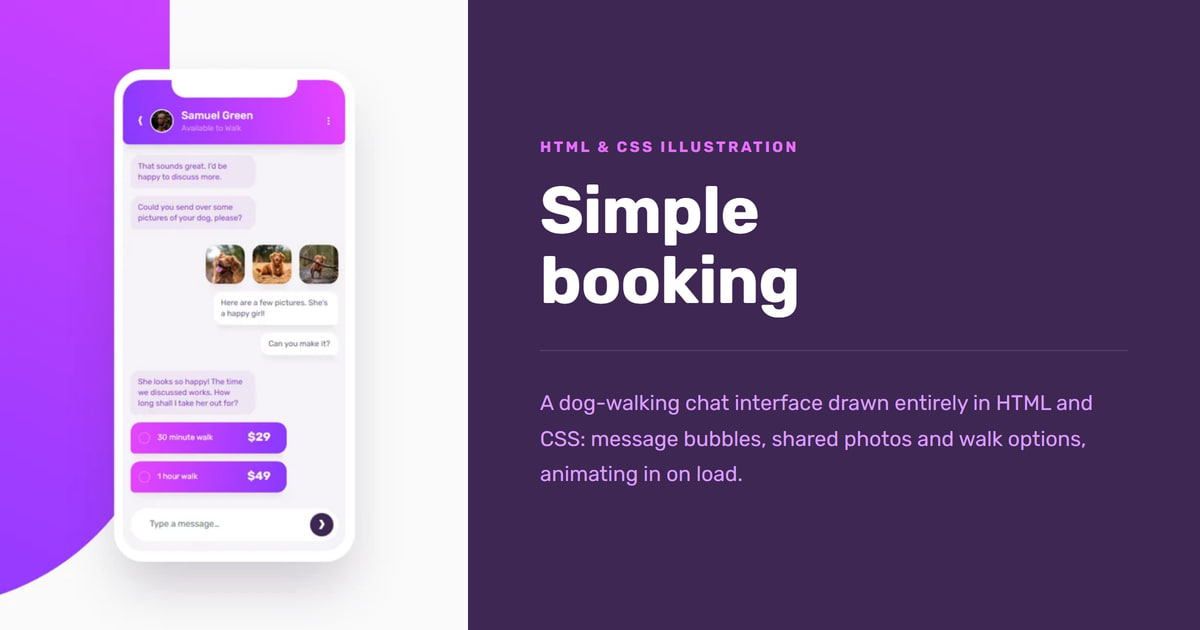
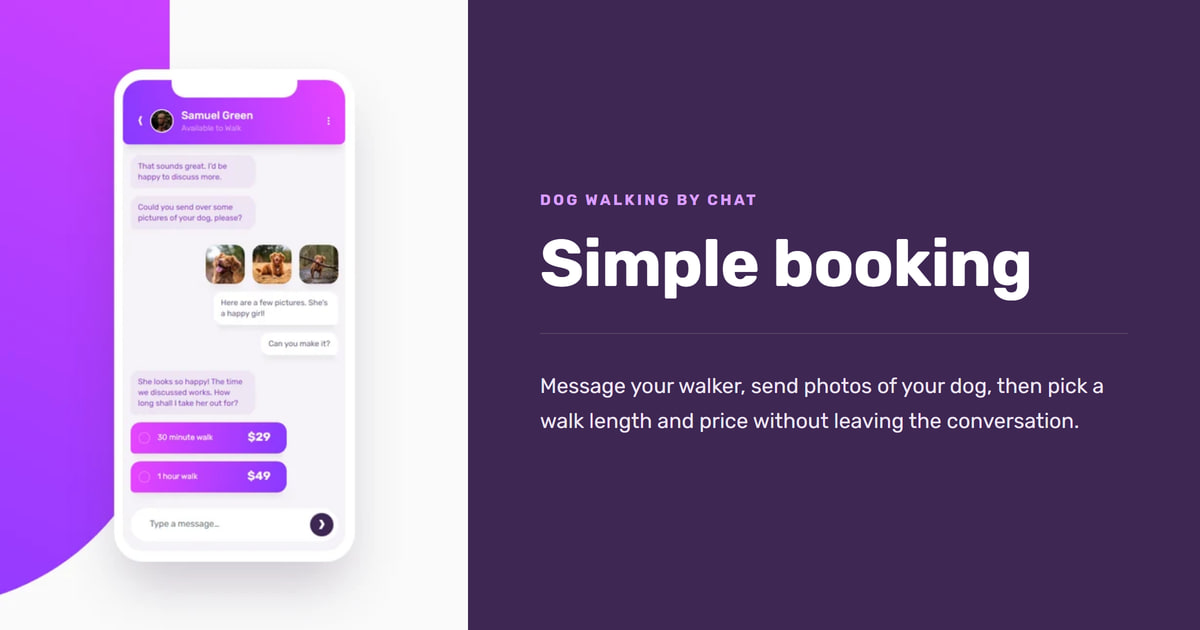
feat: update site name and description for clarity and relevance

Changed region(s): [[0.4317, 0.6032, 0.925, 0.7841], [0.4317, 0.2714, 0.8633, 0.5127], [0.4317, 0.2111, 0.6783, 0.2413]]

diff --git a/src/app/layout.tsx b/src/app/layout.tsx
@@ -13,10 +13,10 @@ const rubik = Rubik({
 const SITE_URL =
   "https://chat-app-css-illustration.abdelrhman-ahmed8881.workers.dev";
 
-const name = "Chat App CSS Illustration";
-const title = `${name} | Simple booking`;
+const name = "Simple booking";
+const title = `${name} | Dog walking by chat`;
 const description =
-  "A dog-walking chat interface drawn entirely in HTML and CSS: message bubbles, shared photos and walk options, animating in on load.";
+  "Message your dog walker, share photos, and pick a walk length and price. Arrangements, bookings and ratings all happen in the conversation.";
 
 const shareImage = {
   url: "/opengraph-image.jpg",
